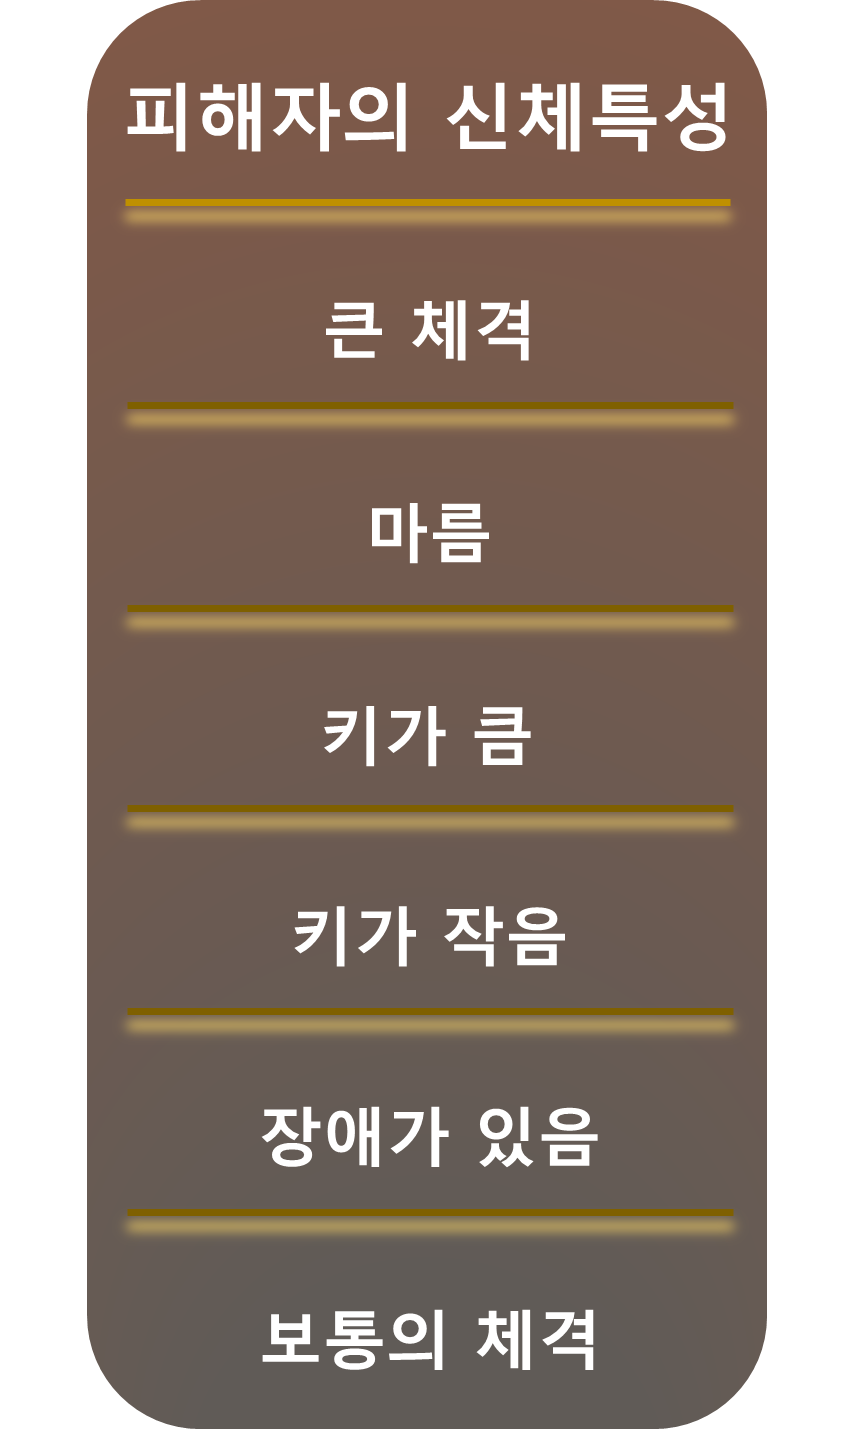
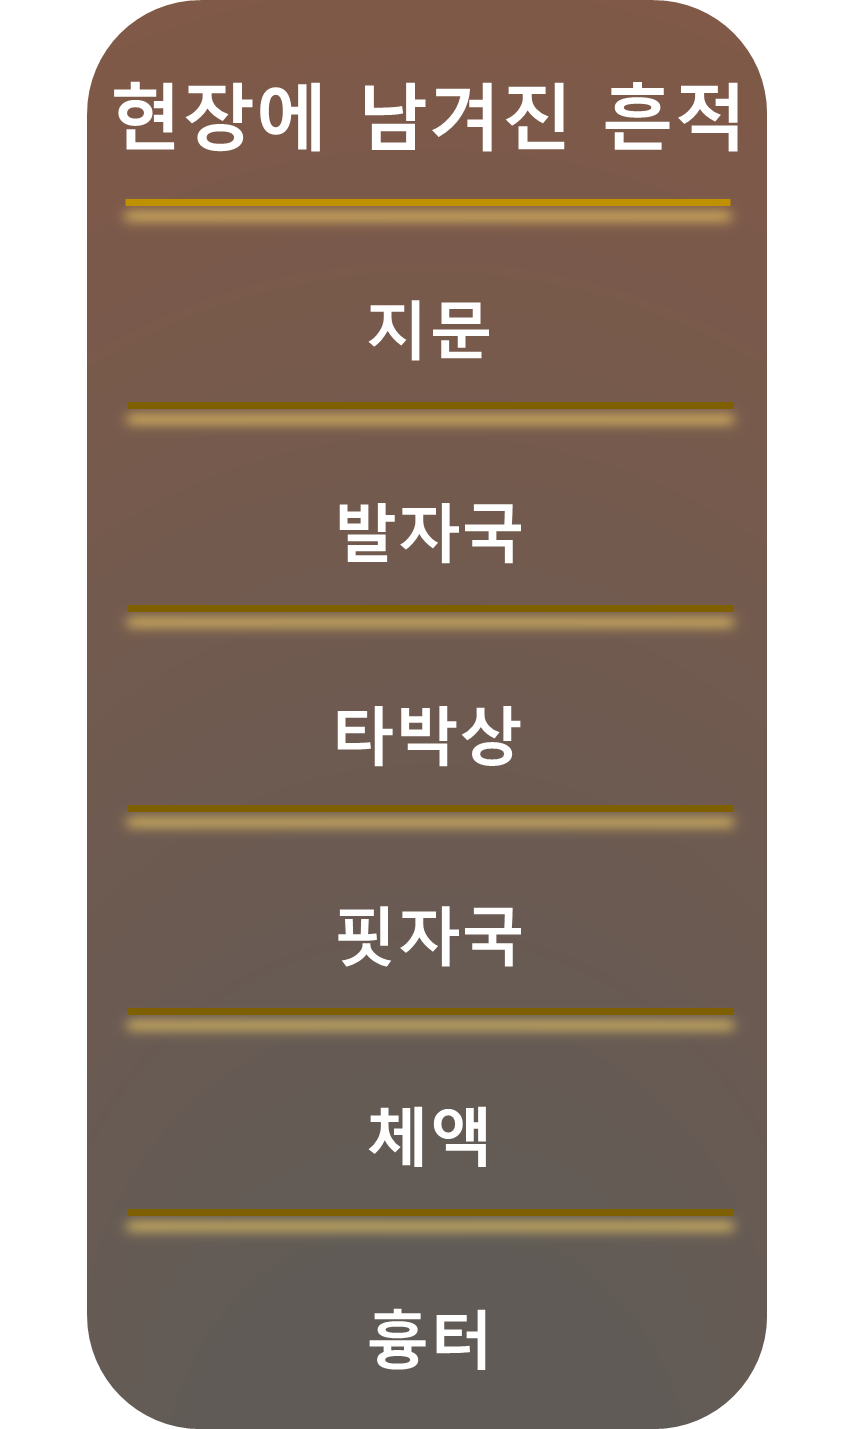
Update hint data

diff --git a/client/src/routes/GodChooseModal.jsx b/client/src/routes/GodChooseModal.jsx
@@ -3,8 +3,12 @@ import "bootstrap/dist/css/bootstrap.css";
 import Button from 'react-bootstrap/Button';
 import Form from 'react-bootstrap/Form';
 import Modal from 'react-bootstrap/Modal';
+import { useEffect } from 'react';
+import { useState } from 'react';
 
 function GodChooseModal(props) {
+
+  const [hintArrayIndex, setHintArrayIndex] = useState([]);
 
     // 최대범위와 갯수를 넣으면 중복 없는 랜덤값 생성
     function ranNum (MaxNum, theNumber) {  
@@ -23,8 +27,10 @@ function GodChooseModal(props) {
         return ran;
     }
         
-    const hintArrayIndex = ranNum(props.hint.length, 4)
-    console.log(hintArrayIndex)
+    useEffect(() => {
+      setHintArrayIndex(ranNum(props.hint.length, 4))
+      console.log(hintArrayIndex)
+    }, [])
 
   return (
     <div>
@@ -47,13 +53,13 @@ function GodChooseModal(props) {
                 <label className="form-check-label"><input className="form-check-input" type="radio" name="사인" value="과다출혈"/>과다출혈</label>
               </div>
               <div className="form-check form-check-inline">
-                <label className="form-check-label"><input className="form-check-input" type="radio" name="사인" value="병/질병"/>병/질병</label>
+                <label className="form-check-label"><input className="form-check-input" type="radio" name="사인" value="질병"/>질병</label>
               </div>
               <div className="form-check form-check-inline">
-                <label className="form-check-label"><input className="form-check-input" type="radio" name="사인" value="중독"/>중독</label>
+                <label className="form-check-label"><input className="form-check-input" type="radio" name="사인" value="독살"/>독살</label>
               </div>
               <div className="form-check form-check-inline">
-                <label className="form-check-label"><input className="form-check-input" type="radio" name="사인" value="사고"/>사고</label>
+                <label className="form-check-label"><input className="form-check-input" type="radio" name="사인" value="사고사"/>사고사</label>
               </div>
             </Form.Group>
             <Form.Group className="mb-3" controlId="exampleForm.ControlTextarea1">
@@ -61,45 +67,25 @@ function GodChooseModal(props) {
               <br/>
               <span>그룹 1&nbsp;&nbsp;&nbsp;</span>
               <div className="form-check form-check-inline">
-                <label className="form-check-label"><input className="form-check-input" type="radio" name="장소" value="술집" />술집</label>
+                <label className="form-check-label"><input className="form-check-input" type="radio" name="장소" value="놀이터" />놀이터</label>
               </div>
               <div className="form-check form-check-inline">
-                <label className="form-check-label"><input className="form-check-input" type="radio" name="장소" value="서점"/>서점</label>
+                <label className="form-check-label"><input className="form-check-input" type="radio" name="장소" value="교실"/>교실</label>
               </div>
               <div className="form-check form-check-inline">
-                <label className="form-check-label"><input className="form-check-input" type="radio" name="장소" value="식당"/>식당</label>
+                <label className="form-check-label"><input className="form-check-input" type="radio" name="장소" value="기숙사"/>기숙사</label>
               </div>
               <div className="form-check form-check-inline">
-                <label className="form-check-label"><input className="form-check-input" type="radio" name="장소" value="호텔"/>호텔</label>
+                <label className="form-check-label"><input className="form-check-input" type="radio" name="장소" value="구내식당"/>구내식당</label>
               </div>
               <div className="form-check form-check-inline">
-                <label className="form-check-label"><input className="form-check-input" type="radio" name="장소" value="병원"/>병원</label>
+                <label className="form-check-label"><input className="form-check-input" type="radio" name="장소" value="엘리베이터"/>엘리베이터</label>
               </div>
               <div className="form-check form-check-inline">
-                <label className="form-check-label"><input className="form-check-input" type="radio" name="장소" value="건축부지"/>건축부지</label>
+                <label className="form-check-label"><input className="form-check-input" type="radio" name="장소" value="공중화잘실"/>공중화잘실</label>
               </div>
               <br/>
               <span>그룹 2&nbsp;&nbsp;&nbsp;</span>
-              <div className="form-check form-check-inline">
-                <label className="form-check-label"><input className="form-check-input" type="radio" name="장소" value="별장"/>별장</label>
-              </div>
-              <div className="form-check form-check-inline">
-                <label className="form-check-label"><input className="form-check-input" type="radio" name="장소" value="공원"/>공원</label>
-              </div>
-              <div className="form-check form-check-inline">
-                <label className="form-check-label"><input className="form-check-input" type="radio" name="장소" value="슈퍼마켓"/>슈퍼마켓</label>
-              </div>
-              <div className="form-check form-check-inline">
-                <label className="form-check-label"><input className="form-check-input" type="radio" name="장소" value="학교"/>학교</label>
-              </div>
-              <div className="form-check form-check-inline">
-                <label className="form-check-label"><input className="form-check-input" type="radio" name="장소" value="숲"/>숲</label>
-              </div>
-              <div className="form-check form-check-inline">
-                <label className="form-check-label"><input className="form-check-input" type="radio" name="장소" value="은행"/>은행</label>
-              </div>
-              <br/>
-              <span>그룹 3&nbsp;&nbsp;&nbsp;</span>
               <div className="form-check form-check-inline">
                 <label className="form-check-label"><input className="form-check-input" type="radio" name="장소" value="거실"/>거실</label>
               </div>
@@ -117,6 +103,26 @@ function GodChooseModal(props) {
               </div>
               <div className="form-check form-check-inline">
                 <label className="form-check-label"><input className="form-check-input" type="radio" name="장소" value="발코니"/>발코니</label>
+              </div>
+              <br/>
+              <span>그룹 3&nbsp;&nbsp;&nbsp;</span>
+              <div className="form-check form-check-inline">
+                <label className="form-check-label"><input className="form-check-input" type="radio" name="장소" value="별장"/>별장</label>
+              </div>
+              <div className="form-check form-check-inline">
+                <label className="form-check-label"><input className="form-check-input" type="radio" name="장소" value="공원"/>공원</label>
+              </div>
+              <div className="form-check form-check-inline">
+                <label className="form-check-label"><input className="form-check-input" type="radio" name="장소" value="슈퍼마켓"/>슈퍼마켓</label>
+              </div>
+              <div className="form-check form-check-inline">
+                <label className="form-check-label"><input className="form-check-input" type="radio" name="장소" value="학교"/>학교</label>
+              </div>
+              <div className="form-check form-check-inline">
+                <label className="form-check-label"><input className="form-check-input" type="radio" name="장소" value="숲속"/>숲속</label>
+              </div>
+              <div className="form-check form-check-inline">
+                <label className="form-check-label"><input className="form-check-input" type="radio" name="장소" value="은행"/>은행</label>
               </div>
             </Form.Group>
             <Form.Group className="mb-3" controlId="exampleForm.ControlTextarea1">

diff --git a/client/src/routes/Deception.jsx b/client/src/routes/Deception.jsx
@@ -17,8 +17,8 @@ function Deception(props) {
   const [text, setText] = useState('');
   const [broadcast, setBroadcast] = useState('살인자가 선택중입니다');
   const [messages, setMessages] = useState([{name: "형진", message: "hi"}, {name: "형진", message: "hello"}]);
-  const [minutes, setMinutes] = useState(1)
-  const [seconds, setSeconds] = useState(0)
+  const [minutes, setMinutes] = useState(2)
+  const [seconds, setSeconds] = useState(30)
   const [timer, setTimer] = useState(false)
   const [answer, setAnswer] = useState({blue: '', red: ''});
   const [godChoice, setGodChoice] = useState({});
@@ -27,17 +27,29 @@ function Deception(props) {
   const { roomNumber } = useParams();
   let userIndex=1;
 
-  const [users, setUsers] = useState([{name: "민철", job: null, blue: [12, 42, 53, 13], red: [2, 43, 25, 83]}, {name: "형진", job: null, blue: [54, 62, 11, 40], red: [1, 3, 4, 5]}, {name: "민호", job: null, blue: [6, 7, 8, 9], red: [6, 7, 8, 9]}, {name: "박철", job: null, blue: [10, 11, 12, 13], red: [14, 15, 16, 17]}]);
-  const cause = ['질식', '중상', '과다출혈', '병/질병', '중독', '사고']
-  const place = [['술집', '서점', '식당', '호텔', '병원', '건축부지'], ['별장', '공원', '슈퍼마켓', '학교', '숲', '은행'], ['거실', '침실', '창고', '화장실', '부엌', '발코니']]
-  const hint = [{title: '희생자의 직업', content: ['사장', '전문가', '노동자', '학생', '실직자', '은퇴']}, 
-                {title: '날씨', content: ['화창한', '폭풍우', '건조한', '습한', '추운', '뜨거운']},
-                {title: '인상착의', content: ['흔한', '개성적인', '수상한', '무정한', '무서운', '의심스런']},
-                {title: '시신에 있는 암시', content: ['머리', '가슴', '손', '다리', '시신 토막', '전신']},
-                {title: '하는 중', content: ['유흥', '휴식', '회의', '거래', '방문', '식사']},
-                {title: '시체 상태', content: ['아직 따듯한', '경직된', '부패된', '불구', '멀쩡한', '접질린']},
-                {title: '범죄 일시', content: ['평일', '주말', '봄', '여름', '가을', '겨울']},
-                {title: '범죄 지속 기간', content: ['즉각적', '단시간', '서서히', '장시간', '며칠', '불확실한']}]
+  const [users, setUsers] = useState([{name: "창현", job: null, blue: [12, 42, 53, 13], red: [2, 43, 25, 83]}, {name: "형진", job: null, blue: [54, 62, 11, 40], red: [1, 3, 4, 5]}, {name: "민호", job: null, blue: [6, 7, 8, 9], red: [6, 7, 8, 9]}, {name: "박철", job: null, blue: [10, 11, 12, 13], red: [14, 15, 16, 17]}]);
+  const cause = ['질식', '중상', '과다출혈', '질병', '독살', '사고사']
+  const place = [['놀이터', '교실', '기숙사', '구내식당', '엘리베이터', '공중화잘실'], ['거실', '침실', '창고', '화장실', '부엌', '발코니'], ['별장', '공원', '슈퍼마켓', '학교', '숲속', '은행']]
+  const hint = [{title: '피해자의 신체특성', content: ['큰 체격', '마름', '키가 큼', '키가 작음', '장애가 있음', '보통의 체격']}, 
+                {title: '현장에 남겨진 흔적', content: ['지문', '발자국', '타박상', '핏자국', '체액', '흉터']},
+                {title: '살인자의 성격', content: ['오만한', '비열한', '다혈질', '탐욕스러운', '강압적', '변태적']},
+                {title: '발견된 단서', content: ['자연스러움', '예술적', '기록되어 있음', '인조 물질', '개연적', '관계없음']},
+                {title: '범죄기간', content: ['즉각적', '단시간', '점진적', '장기적', '며칠동안', '확실하지 않음']},
+                {title: '사회적 관계', content: ['가족', '친구', '동료', '고용주/종업원', '연인', '모르는 사람']},
+                {title: '범죄 동기', content: ['증오', '권력', '돈', '사랑', '질투', '정의']},
+                {title: '피해자의 복장상태', content: ['단정함', '지저분함', '우아함', '허름함', '독특함', '나체']},
+                {title: '사망 시각', content: ['새벽', '아침', '정오', '오후', '저녁', '밤']},
+                {title: '피해자의 신원', content: ['어린이', '청소년', '중년', '노인', '남성', '여성']},
+                {title: '피해자의 직업', content: ['경영직', '전문직', '노동직', '학생', '무직', '은퇴']},
+                {title: '날씨', content: ['맑음', '폭풍우', '건조함', '습함', '추운날씨', '더운날씨']},
+                {title: '전반적인 인상', content: ['평범한', '창의적인', '수상함', '잔인함', '공포스러움', '긴장감 넘침']},
+                {title: '사건 당일', content: ['평일', '주말', '봄', '여름', '가을', '겨울']},
+                {title: '피해자의 표정', content: ['평온함', '힘겨워함', '겁먹음', '고통스러움', '무표정함', '화남']},
+                {title: '범죄현장 상황', content: ['어질러져 있음', '잿더미', '물얼룩', '깨진 흔적', '무질서함', '정돈됨']},
+                {title: '갑작스러운 사건', content: ['정전', '화재', '다툼', '금품도난', '비명', '없음']},
+                {title: '시체의 상태', content: ['온기가 남아있음', '경직됨', '부패함', '훼손됨', '온전함', '뒤틀림']},
+                {title: '범행 시 상황', content: ['여가중', '휴가중', '회의중', '거래중', '방문중', '식사중']},
+                {title: '시체에서의 단서', content: ['머리', '가슴', '손', '다리', '일부분', '전체적']}]
   
   const handleCloseGodChoose = () => setShowGodChoose(false);
   const handleShowGodChoose = () => setShowGodChoose(true);
